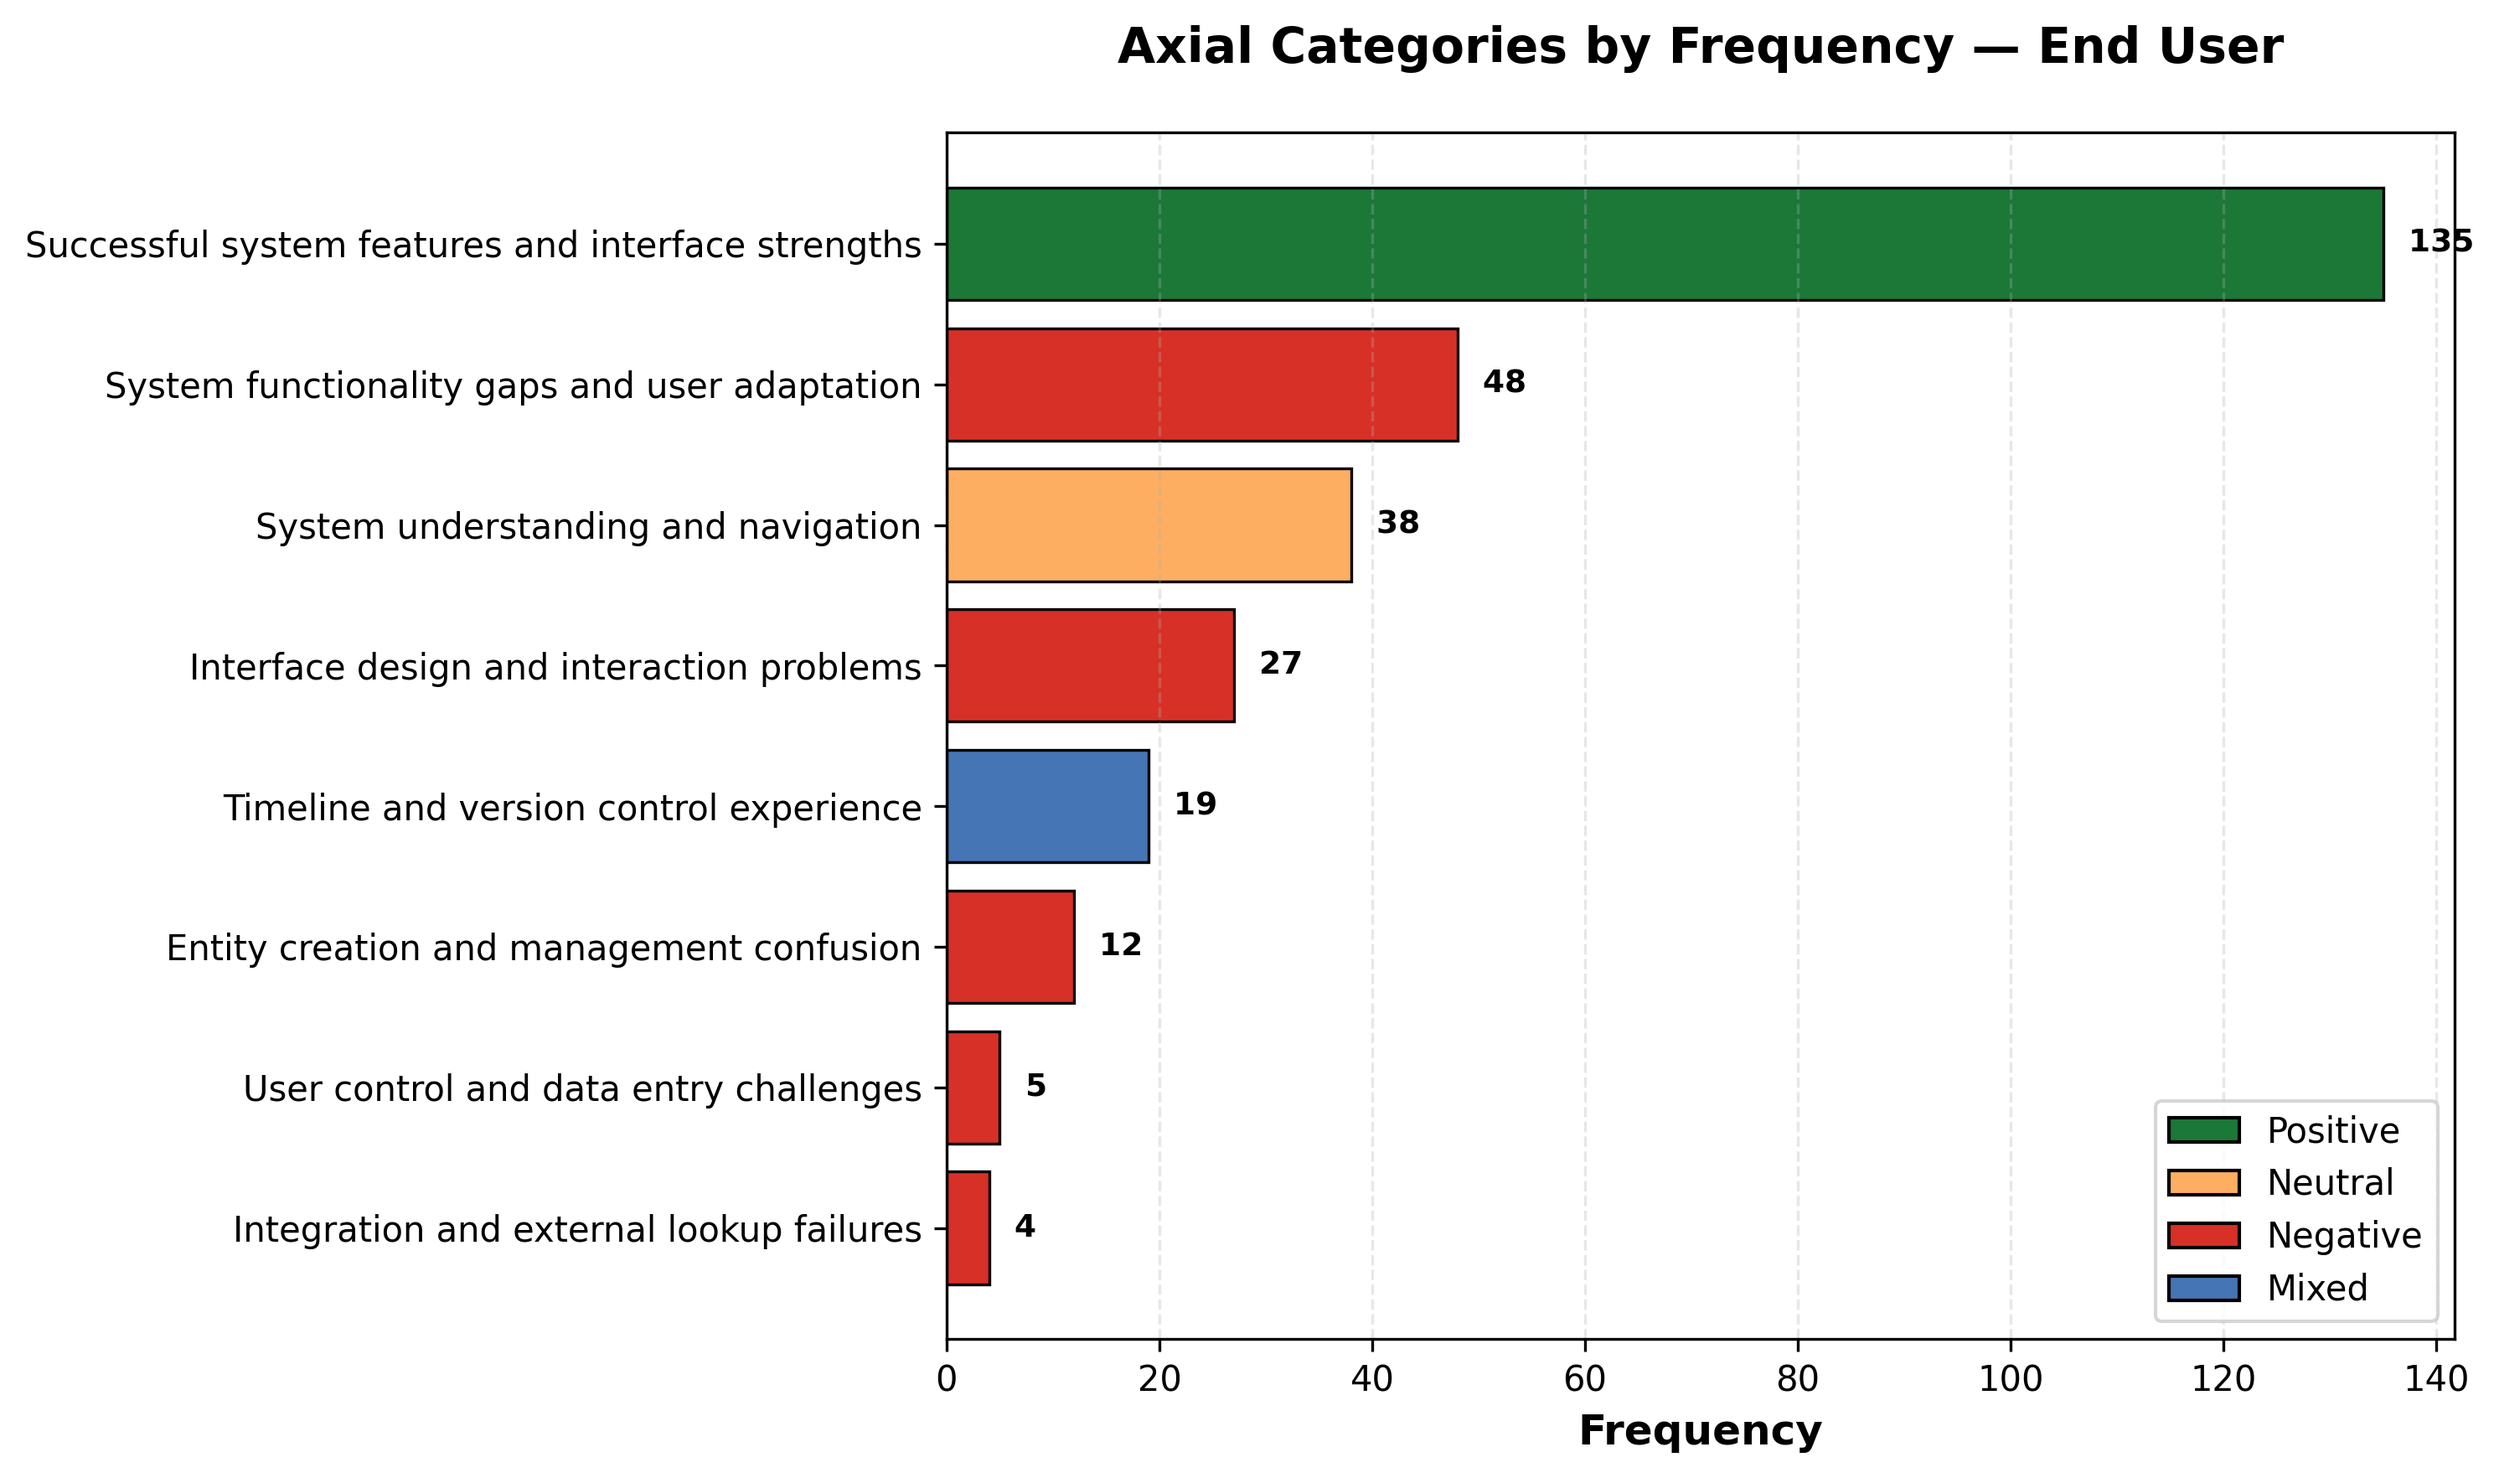
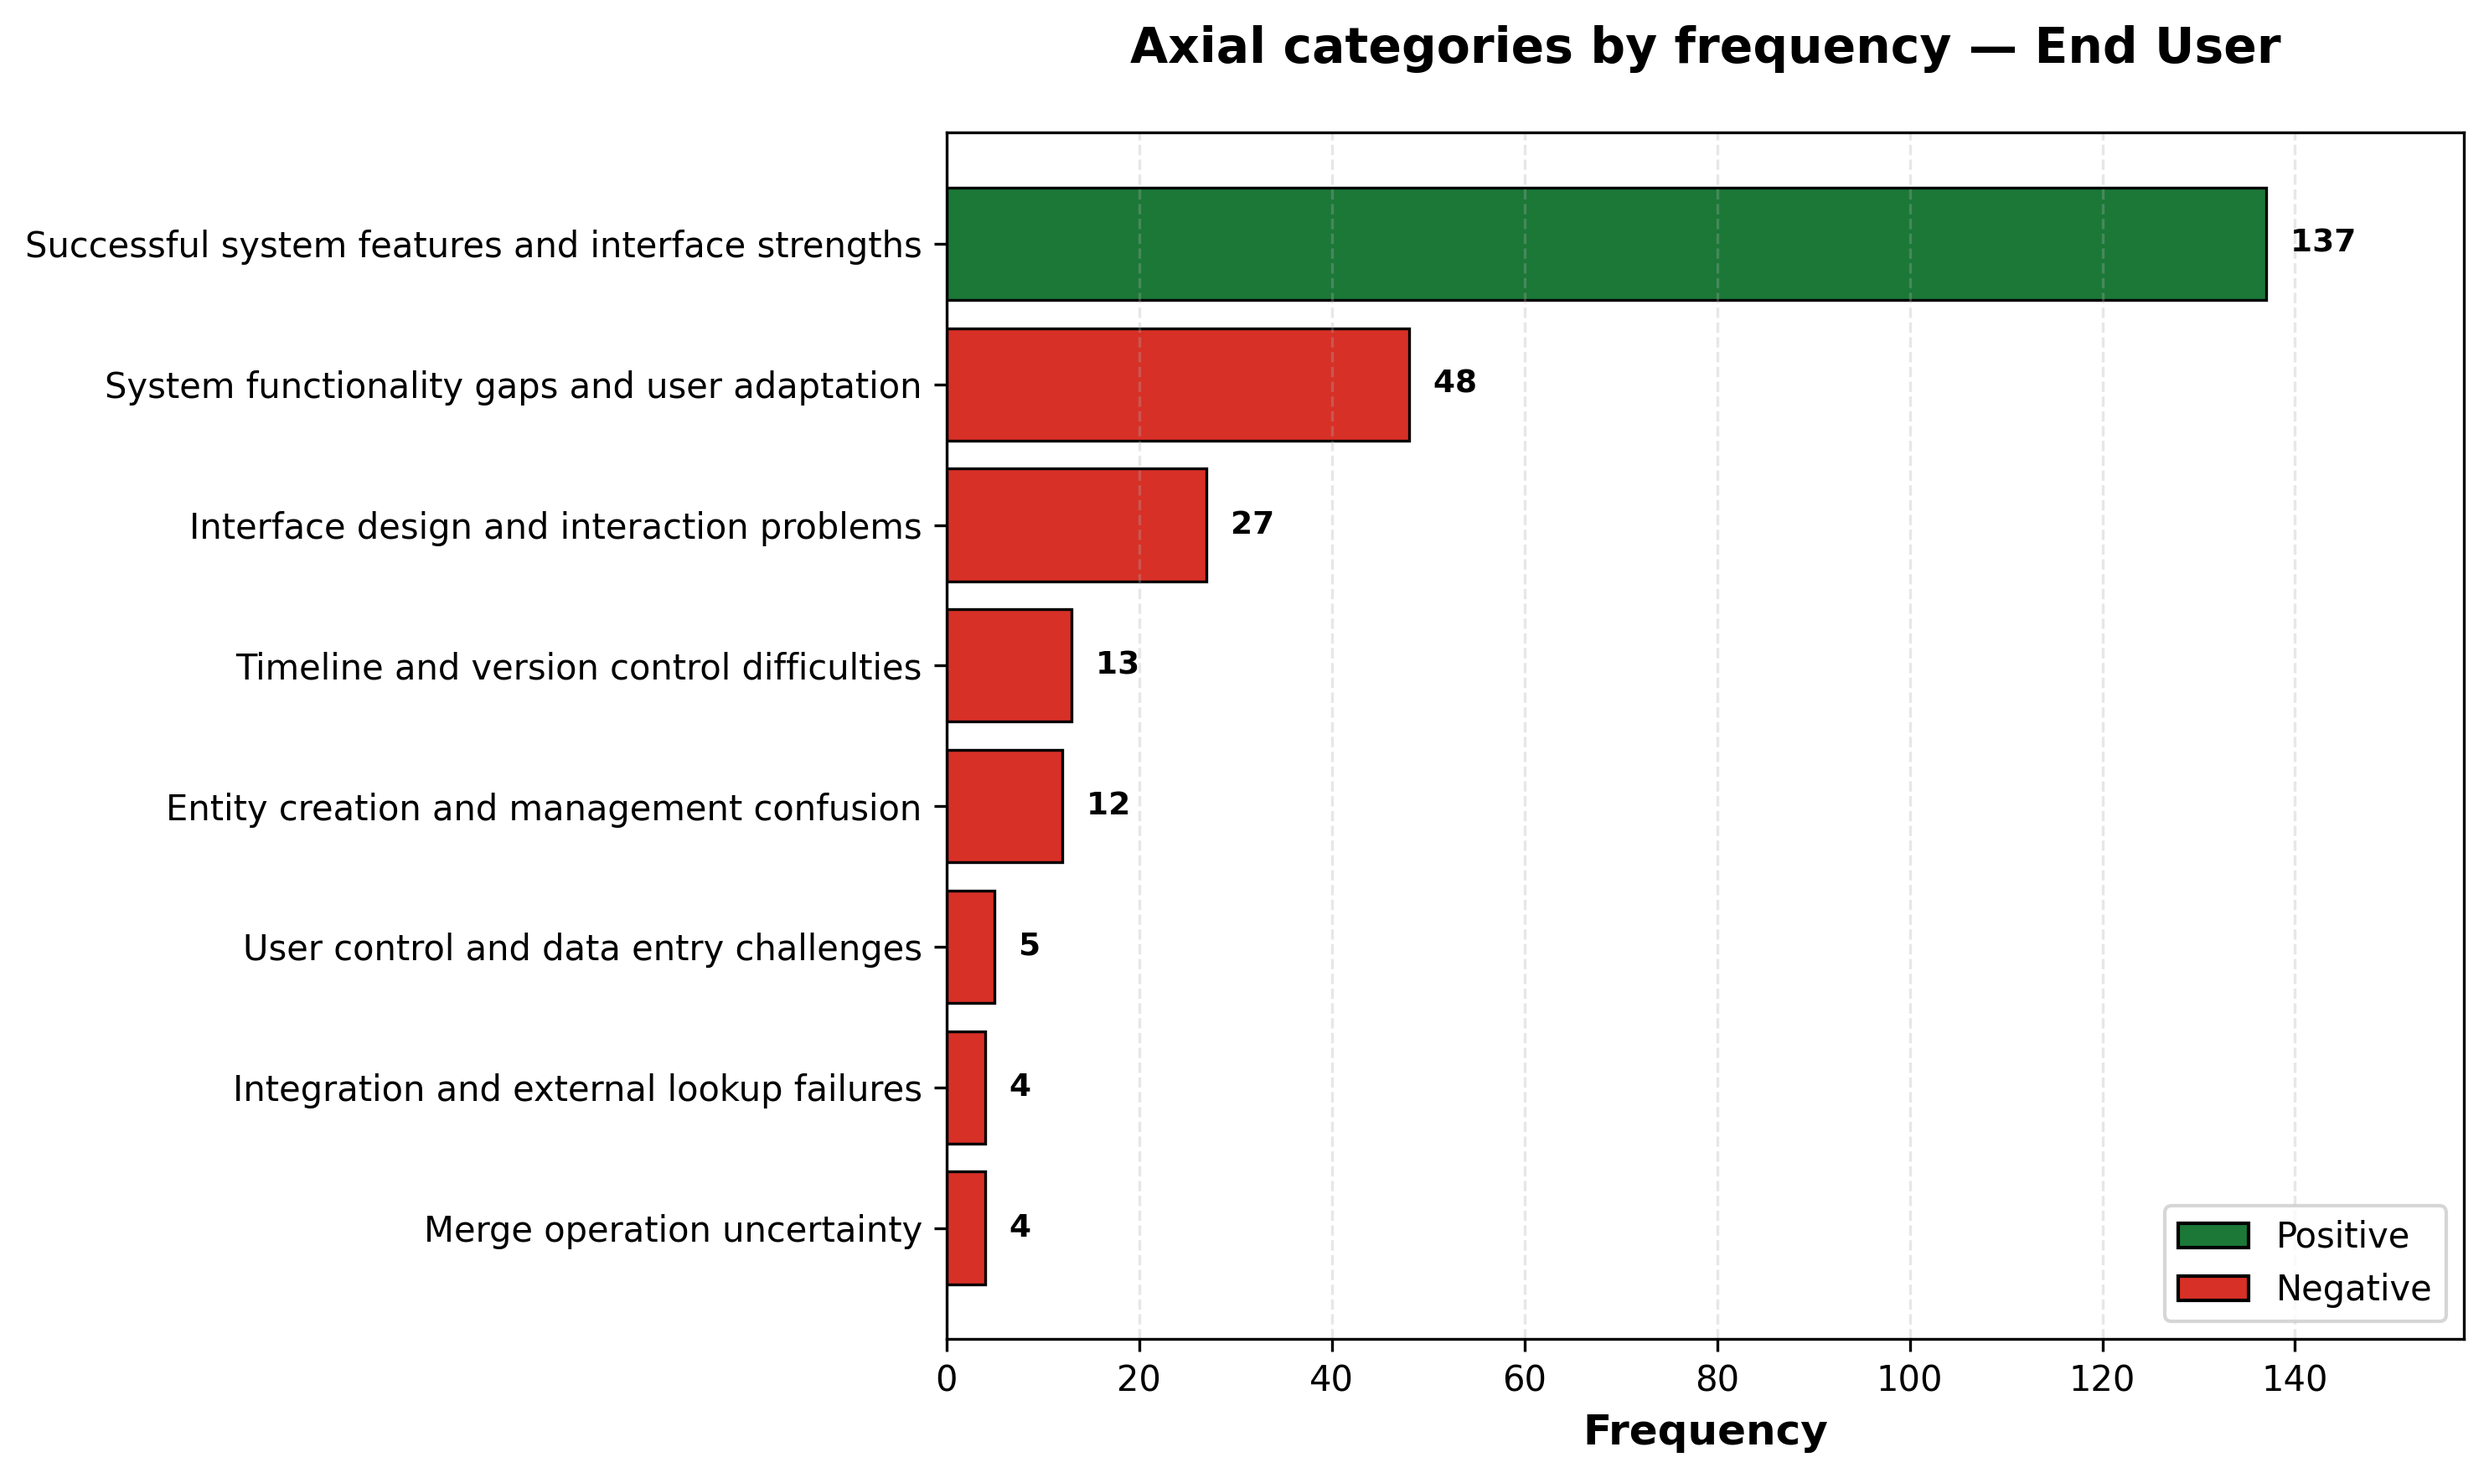
refactor(user-testing): eliminate mixed sentiment from axial coding analysis
Split the "Timeline and version control experience" category into three
sentiment-coherent categories:
- "Timeline and version control difficulties" (negative, 13 codes)
- "Merge operation uncertainty" (negative, 4 codes)
- Moved positive codes to "Successful system features" (137 codes)

Updated visualization to exclude neutral categories and removed mixed/neutral
sentiment colors from the analysis, focusing on clear positive/negative
sentiment distribution. Applied sentence case to chart title and increased
plot width to accommodate frequency labels.

diff --git a/user_testing/analysis_software/grounded_theory_plots.py b/user_testing/analysis_software/grounded_theory_plots.py
@@ -13,9 +13,7 @@ warnings.filterwarnings('ignore')
 # Color palettes
 SENTIMENT_COLORS = {
     'positive': '#1b7837',  # Green
-    'neutral': '#fdae61',   # Yellow-orange
-    'negative': '#d73027',  # Red
-    'mixed': '#4575b4'      # Blue
+    'negative': '#d73027'   # Red
 }
 
 
@@ -44,15 +42,17 @@ def create_horizontal_bar_chart(user_type: str, repo_root: Path, output_dir: Pat
     axial = load_axial_codes(user_type, repo_root)
     categories = axial['categories']
 
-    # Extract data
+    # Extract data (filter out neutral categories)
     cat_names = []
     frequencies = []
     sentiments = []
 
     for cat in categories:
-        cat_names.append(cat['category_name'])
-        frequencies.append(int(cat['frequency']))
-        sentiments.append(cat['overall_sentiment'])
+        sentiment = cat['overall_sentiment']
+        if sentiment != 'neutral':
+            cat_names.append(cat['category_name'])
+            frequencies.append(int(cat['frequency']))
+            sentiments.append(sentiment)
 
     # Create DataFrame and sort by frequency
     df = pd.DataFrame({
@@ -76,21 +76,19 @@ def create_horizontal_bar_chart(user_type: str, repo_root: Path, output_dir: Pat
         ax.text(freq + max(df['frequency']) * 0.01, i, f' {freq}',
                 va='center', ha='left', fontsize=9, fontweight='bold')
 
+    # Set x-axis limit to accommodate the labels
+    ax.set_xlim(0, max(df['frequency']) * 1.15)
+
     ax.set_xlabel('Frequency', fontsize=12, fontweight='bold')
-    ax.set_title(f'Axial Categories by Frequency — {humanize_user_type(user_type)}',
+    ax.set_title(f'Axial categories by frequency — {humanize_user_type(user_type)}',
                 fontsize=14, fontweight='bold', pad=20)
     ax.grid(axis='x', alpha=0.3, linestyle='--')
 
     # Create legend
     legend_elements = [
         mpatches.Patch(facecolor=SENTIMENT_COLORS['positive'], edgecolor='black', label='Positive'),
-        mpatches.Patch(facecolor=SENTIMENT_COLORS['neutral'], edgecolor='black', label='Neutral'),
         mpatches.Patch(facecolor=SENTIMENT_COLORS['negative'], edgecolor='black', label='Negative'),
     ]
-    if 'mixed' in df['sentiment'].values:
-        legend_elements.append(
-            mpatches.Patch(facecolor=SENTIMENT_COLORS['mixed'], edgecolor='black', label='Mixed')
-        )
 
     ax.legend(handles=legend_elements, loc='lower right', frameon=True, fontsize=10)
 
